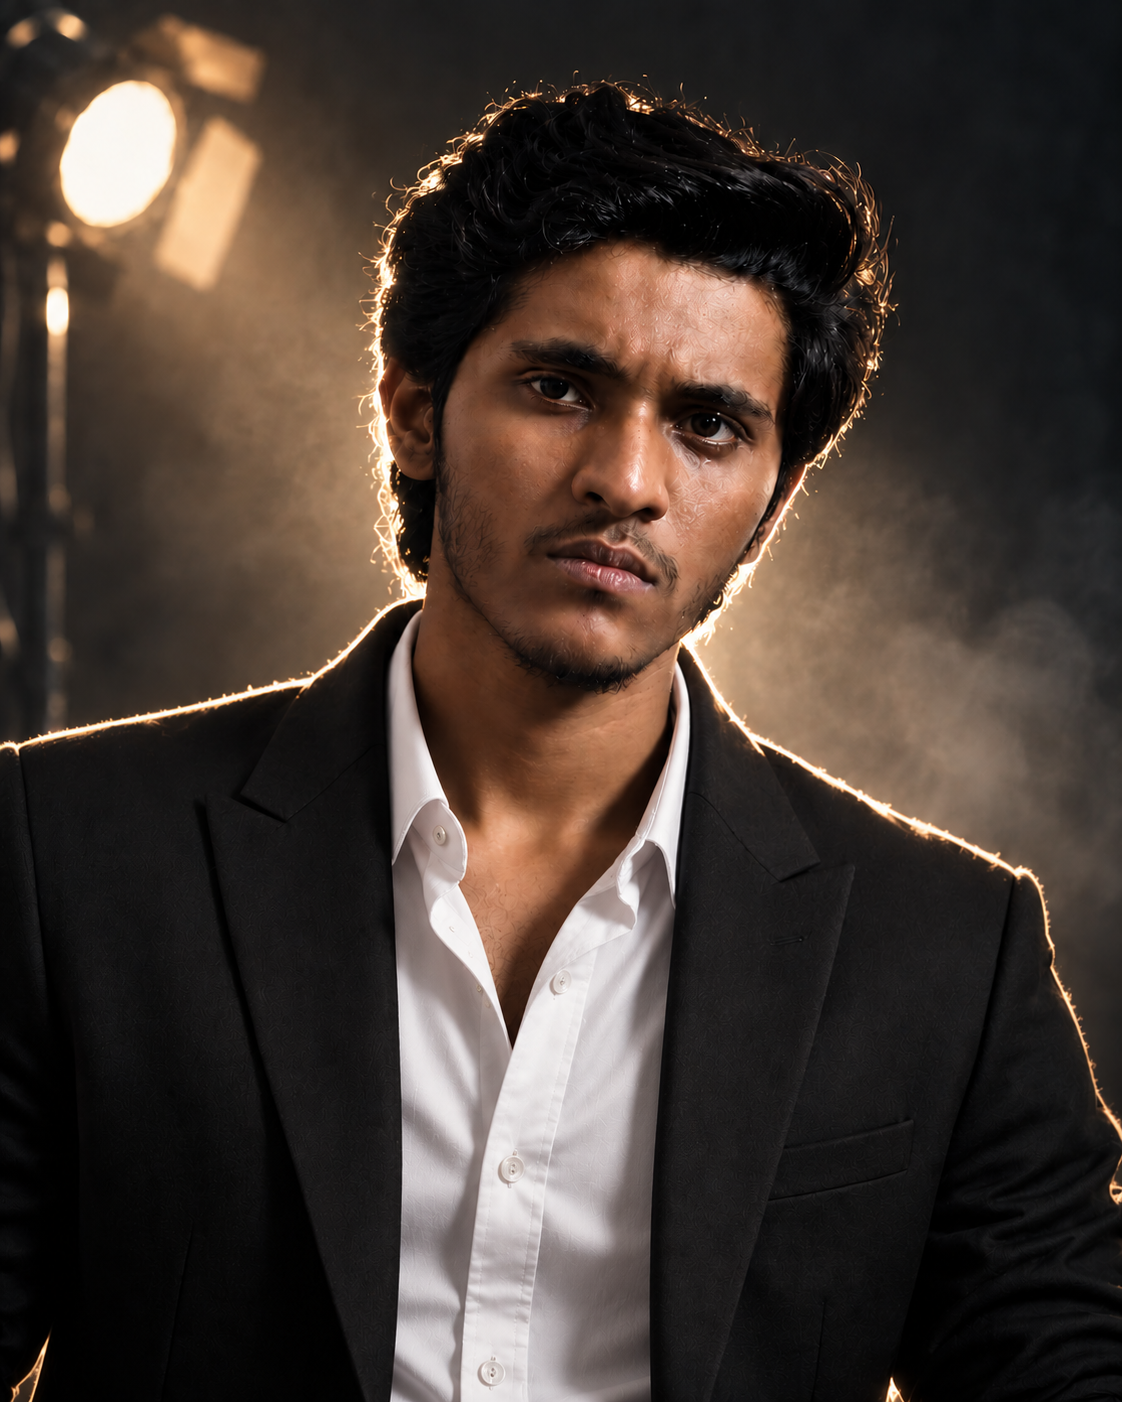
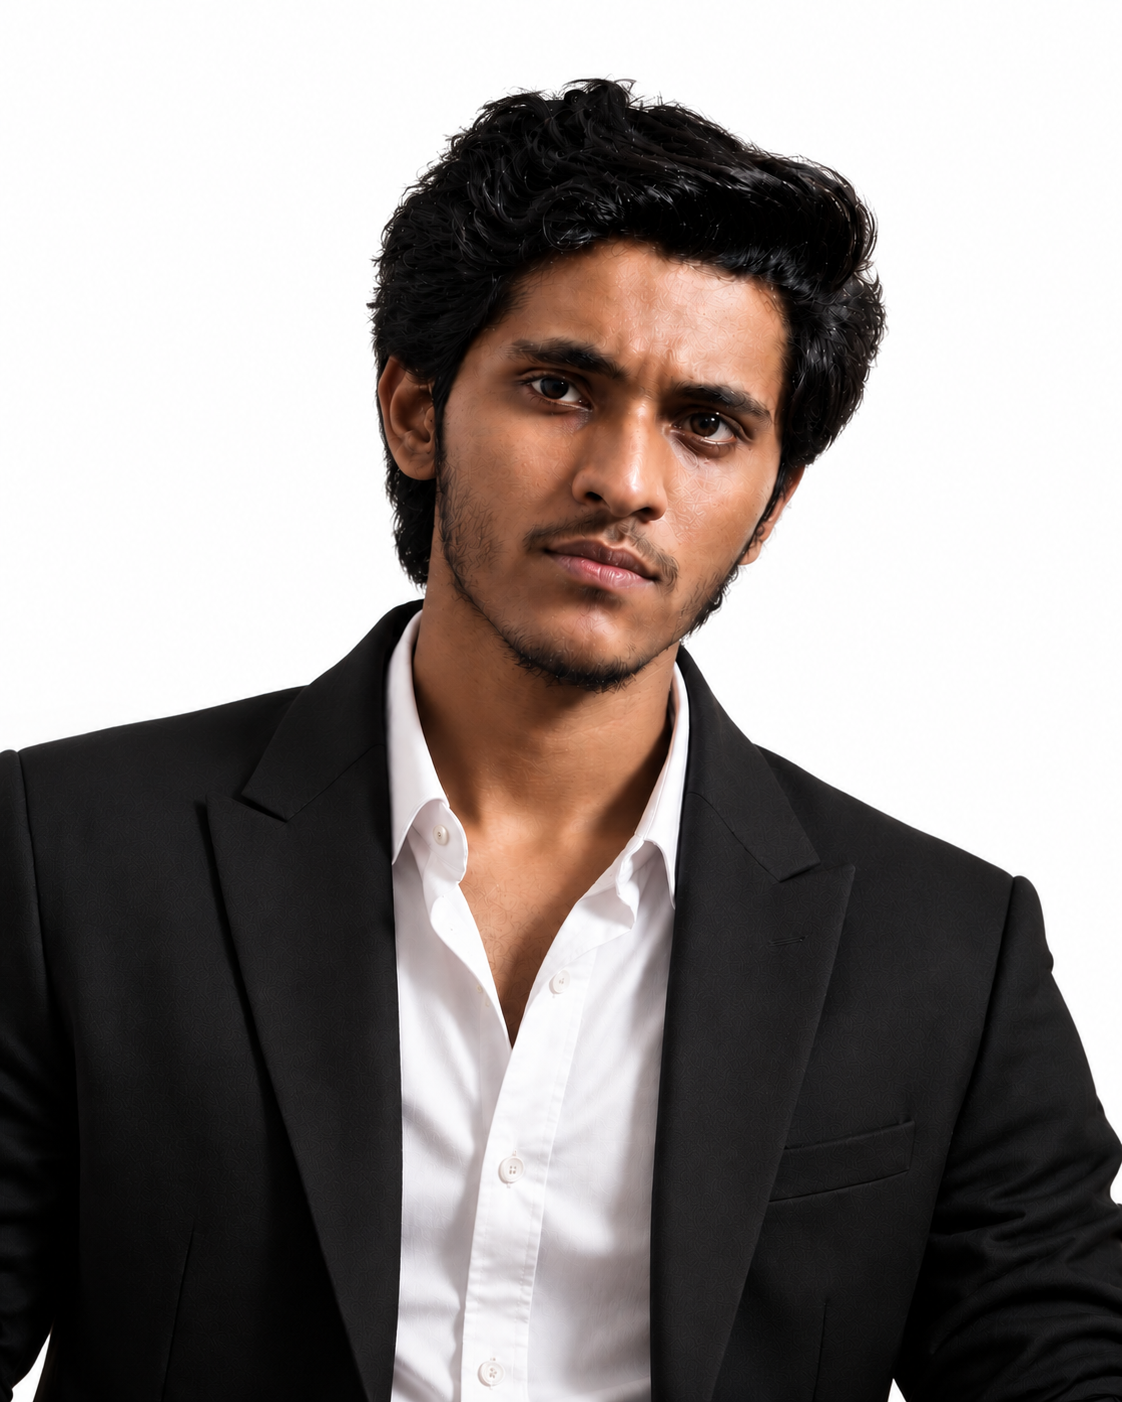
feat: add verification links to internship section
Update portfolio data and components to include external links for 
verifying internship records, improving transparency and professional 
credibility.

diff --git a/src/components/InternshipsSection.tsx b/src/components/InternshipsSection.tsx
@@ -79,15 +79,26 @@ export const InternshipsSection: React.FC = () => {
                     </div>
 
                     {/* Details */}
-                    <div className="flex-1">
-                      <div className="flex flex-wrap items-center justify-between gap-2 mb-1">
+                    <div className="flex-1 w-full min-w-0">
+                      <div className="flex items-center justify-between gap-3 mb-1">
                         <h3 className="font-serif font-bold text-xl text-[#0F172A] dark:text-[#F1F5F9] group-hover:text-[#E05638] transition-colors duration-150 inline-block relative after:content-[''] after:absolute after:bottom-0 after:left-0 after:w-0 after:h-[1.5px] after:bg-[#E05638] group-hover:after:w-full after:transition-all after:duration-150 after:ease-out">
                           {intern.role}
                         </h3>
+                        {intern.verifyUrl && (
+                          <a
+                            href={intern.verifyUrl}
+                            target="_blank"
+                            rel="noopener noreferrer"
+                            aria-label={`Verify ${intern.company} internship document`}
+                            className="font-mono text-xs font-bold text-[#E05638] hover:text-[#C8482E] dark:hover:text-[#F07054] tracking-wider hover:underline transition-colors duration-150 shrink-0 inline-flex items-center"
+                          >
+                            [VERIFY ↗]
+                          </a>
+                        )}
                       </div>
 
                       <div className="font-mono text-xs text-[#E05638] font-bold mb-3">
-                        {intern.company} &bull; APPOINTMENT RECORD
+                        {intern.company}
                       </div>
 
                       <p className="text-slate-600 dark:text-slate-400 text-sm leading-relaxed mb-4 font-sans">

diff --git a/src/data/portfolioData.ts b/src/data/portfolioData.ts
@@ -276,6 +276,7 @@ export const INTERNSHIPS_DATA: Internship[] = [
     company: 'Endeavour ERP Solutions India Pvt. Ltd., Hyderabad',
     period: 'June 2026 - August 2026 (2 months)',
     image: '/portfolio/endeavour.svg',
+    verifyUrl: 'https://drive.google.com/file/d/11TyAGEiwM8-juAEHwrHZrUEprLz5wCBq/view?usp=sharing',
     description: 'Completed an AI internship focused on software development, working on real-world tasks and gaining hands-on industry experience.',
     skills: ['AI Development', 'Software Development', 'Python', 'Real-world Tasks', 'Industry Experience']
   },
@@ -285,6 +286,7 @@ export const INTERNSHIPS_DATA: Internship[] = [
     company: 'Intellipaat Software Solutions Pvt. Ltd.',
     period: 'November 2025 - April 2026 (6 months)',
     image: '/portfolio/intellipaat.svg',
+    verifyUrl: 'https://drive.google.com/file/d/1E41t1Y3oD0CCIJoqAJywq6B422zUvEz3/view?usp=sharing',
     description: 'Worked as part of the DRISHTI CPS hands-on internship program with IIT Indore. Built ML/DL-based text and image AI applications in Python, covering data preprocessing, model training and evaluation, SQL, neural networks, and GenAI/prompting with GPT.',
     skills: ['Machine Learning', 'Deep Learning', 'Python', 'GenAI & Prompting (GPT)', 'Neural Networks', 'SQL', 'Data Preprocessing', 'Model Evaluation']
   }

diff --git a/src/types.ts b/src/types.ts
@@ -52,6 +52,7 @@ export interface Internship {
   image: string;
   description: string;
   skills: string[];
+  verifyUrl?: string;
 }
 
 export interface UniversityTab {
